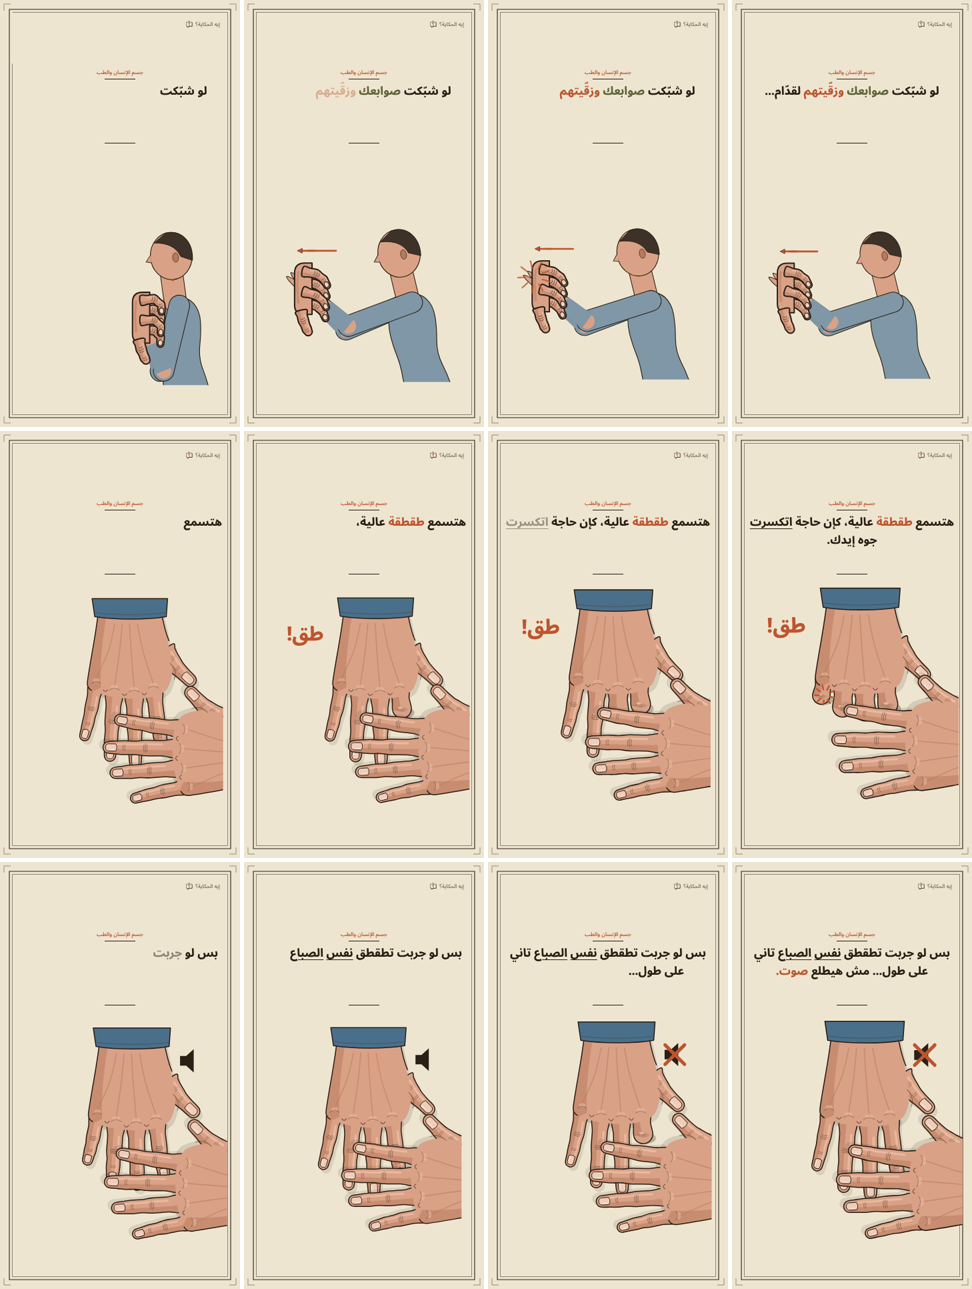
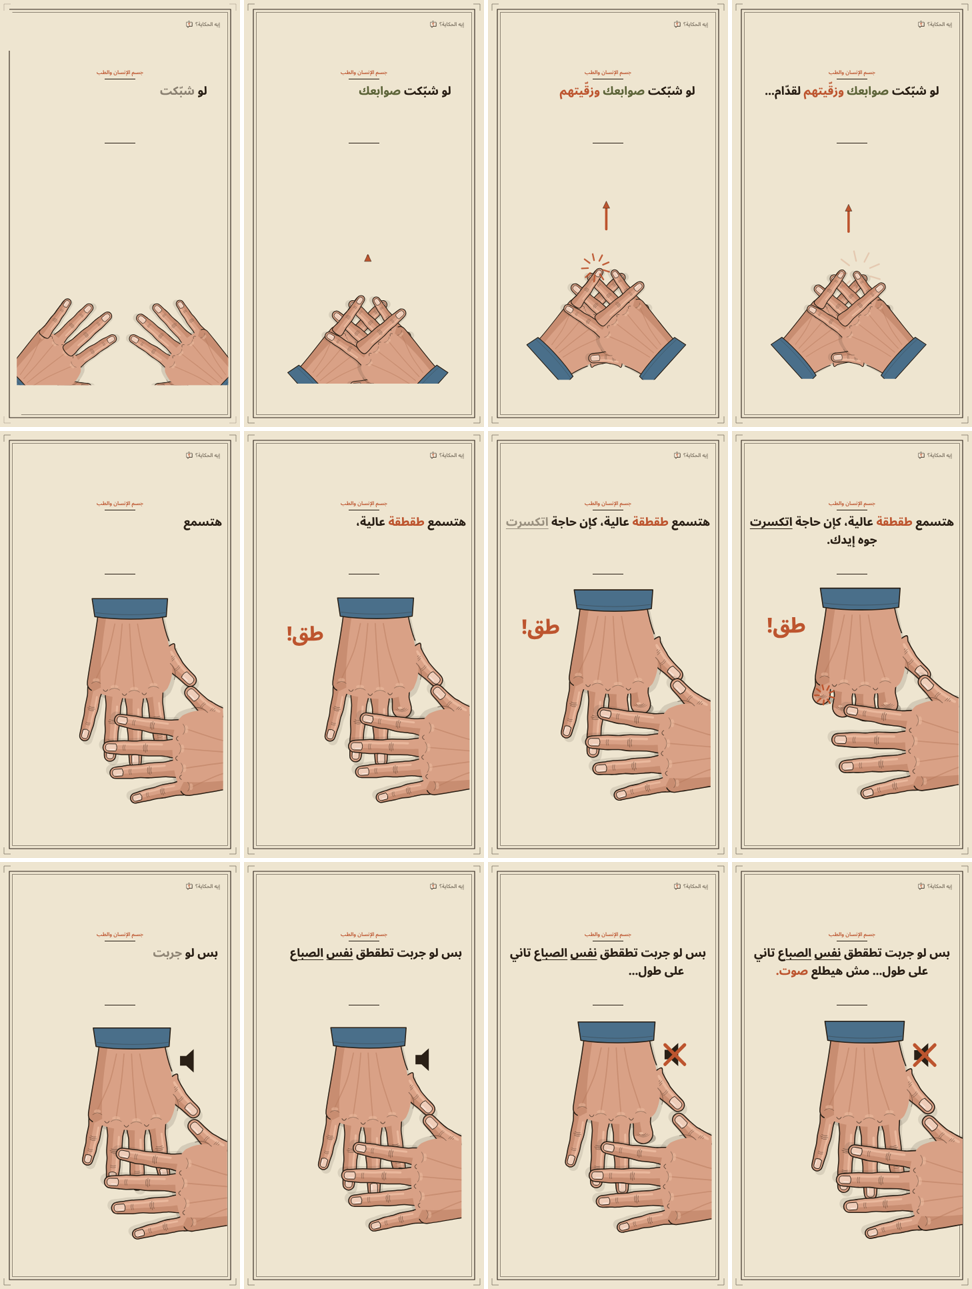
knuckles: hook line 0 from above (the two hands interlace and push forward) instead of the side view
Claude-Session: https://claude.ai/code/session_016TN7FKz6CuAHLeBEY74zmL

diff --git a/videos/knuckles/sketch/scenes.js b/videos/knuckles/sketch/scenes.js
@@ -658,13 +658,18 @@ function clasp(x, y, sc, push) {
 SCENE.intro = function (svg, t, li) {
   var s = "";
   if (li === 0) {
-    // line 0: the man stretches his arms out, fingers interlaced, palms out: the fingers bend back
-    var u = t - LN[0].start, k = at(u, .25, 1.2), sc = 2.6, hip = [480, 720];
-    var cx = lerp(330, 92, k), cy = lerp(470, 396, k), w = [cx + 34 * 1.1, cy + 8 * 1.1];
-    var man = fig({ x: hip[0], y: hip[1], s: sc, lean: 4 + 6 * k, shirt: SHIRT_V, hands: [w, [w[0] + 6, w[1] - 4]], bend: [-1, -1], legs: [[88, -86], [86, -86]] });
-    s += man.far + man.body + man.near + clasp(cx, cy, 1.3, k);
-    s += burst(cx + 8, cy - 30, (u - 1.45) / .5, 46) + burst(cx + 8, cy + 10, (u - 1.75) / .5, 40);
-    s += draw("M" + f(cx + 120) + " " + f(cy - 110) + " L" + f(cx + 40) + " " + f(cy - 110), at(u, .3, .5), ORANGE, 5) + arrow(cx + 60, cy - 110, cx + 10, cy - 110, ORANGE, 5, at(u, .7, .3));
+    // line 0, from above like the close-up after it: the two hands come in, the fingers interlace, and the pair is pushed
+    // forward (up the screen) palms out; two cracks as the arms straighten
+    var u = t - LN[0].start, kin = at(u, 0, .7), k = at(u, .8, .6), sc = .74;
+    var push = -70 * k, gap = lerp(130, -74, kin);
+    var R = [409 + gap, 560 + push], Lh = [201 - gap, 560 + push], rr = 132, rl = 228;
+    function tf(c, rot, m) { return "translate(" + f(c[0]) + " " + f(c[1]) + ") rotate(" + rot + ") scale(" + f((m ? -1 : 1) * sc) + " " + sc + ") translate(-250 -350)"; }
+    s += HAND(Lh[0], Lh[1], sc, rl, {}, true) + HAND(R[0], R[1], sc, rr, {});
+    // interlaced: the left hand's middle and little fingers lie over the right hand's fingers
+    s += G(tf(Lh, rl, true), drawFinger(fingerJ("middle", {})) + drawFinger(fingerJ("pinky", {})));
+    var kn = [(R[0] + Lh[0]) / 2, R[1] - 150];
+    s += burst(kn[0] - 30, kn[1], (u - 1.45) / .5, 50) + burst(kn[0] + 30, kn[1] + 10, (u - 1.75) / .5, 46);
+    s += arrow(kn[0], kn[1] - 110, kn[0], kn[1] - 190, ORANGE, 7, at(u, .8, .4));
   } else {
     // lines 1–2: close up from above. The right hand's fingers fold one by one into a fist while the left hand,
     // palm down over them, presses them in: each knuckle cracks («طق»). Then the same finger again: no sound.

diff --git a/videos/knuckles/sketch/shots.js b/videos/knuckles/sketch/shots.js
@@ -497,13 +497,18 @@ function clasp(x, y, sc, push) {
 SCENE.intro = function (svg, t, li) {
   var s = "";
   if (li === 0) {
-    // line 0: the man stretches his arms out, fingers interlaced, palms out: the fingers bend back
-    var u = t - LN[0].start, k = at(u, .25, 1.2), sc = 2.6, hip = [480, 720];
-    var cx = lerp(330, 92, k), cy = lerp(470, 396, k), w = [cx + 34 * 1.1, cy + 8 * 1.1];
-    var man = fig({ x: hip[0], y: hip[1], s: sc, lean: 4 + 6 * k, shirt: SHIRT_V, hands: [w, [w[0] + 6, w[1] - 4]], bend: [-1, -1], legs: [[88, -86], [86, -86]] });
-    s += man.far + man.body + man.near + clasp(cx, cy, 1.3, k);
-    s += burst(cx + 8, cy - 30, (u - 1.45) / .5, 46) + burst(cx + 8, cy + 10, (u - 1.75) / .5, 40);
-    s += draw("M" + f(cx + 120) + " " + f(cy - 110) + " L" + f(cx + 40) + " " + f(cy - 110), at(u, .3, .5), ORANGE, 5) + arrow(cx + 60, cy - 110, cx + 10, cy - 110, ORANGE, 5, at(u, .7, .3));
+    // line 0, from above like the close-up after it: the two hands come in, the fingers interlace, and the pair is pushed
+    // forward (up the screen) palms out; two cracks as the arms straighten
+    var u = t - LN[0].start, kin = at(u, 0, .7), k = at(u, .8, .6), sc = .74;
+    var push = -70 * k, gap = lerp(130, -74, kin);
+    var R = [409 + gap, 560 + push], Lh = [201 - gap, 560 + push], rr = 132, rl = 228;
+    function tf(c, rot, m) { return "translate(" + f(c[0]) + " " + f(c[1]) + ") rotate(" + rot + ") scale(" + f((m ? -1 : 1) * sc) + " " + sc + ") translate(-250 -350)"; }
+    s += HAND(Lh[0], Lh[1], sc, rl, {}, true) + HAND(R[0], R[1], sc, rr, {});
+    // interlaced: the left hand's middle and little fingers lie over the right hand's fingers
+    s += G(tf(Lh, rl, true), drawFinger(fingerJ("middle", {})) + drawFinger(fingerJ("pinky", {})));
+    var kn = [(R[0] + Lh[0]) / 2, R[1] - 150];
+    s += burst(kn[0] - 30, kn[1], (u - 1.45) / .5, 50) + burst(kn[0] + 30, kn[1] + 10, (u - 1.75) / .5, 46);
+    s += arrow(kn[0], kn[1] - 110, kn[0], kn[1] - 190, ORANGE, 7, at(u, .8, .4));
   } else {
     // lines 1–2: close up from above. The right hand's fingers fold one by one into a fist while the left hand,
     // palm down over them, presses them in: each knuckle cracks («طق»). Then the same finger again: no sound.
